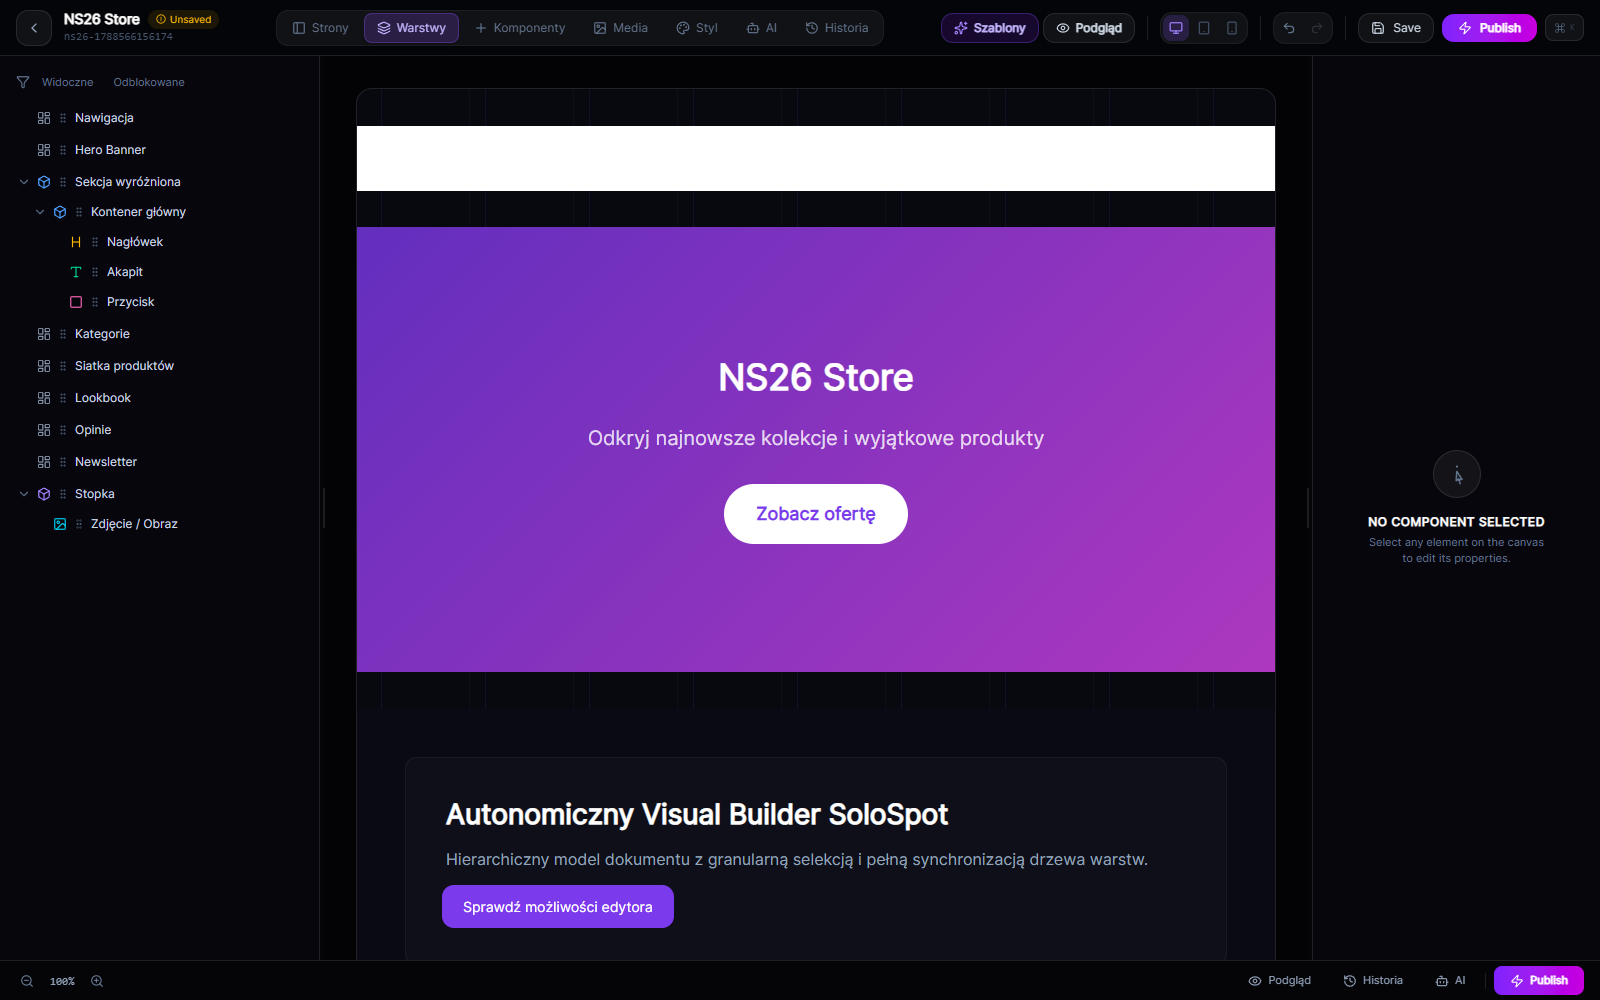
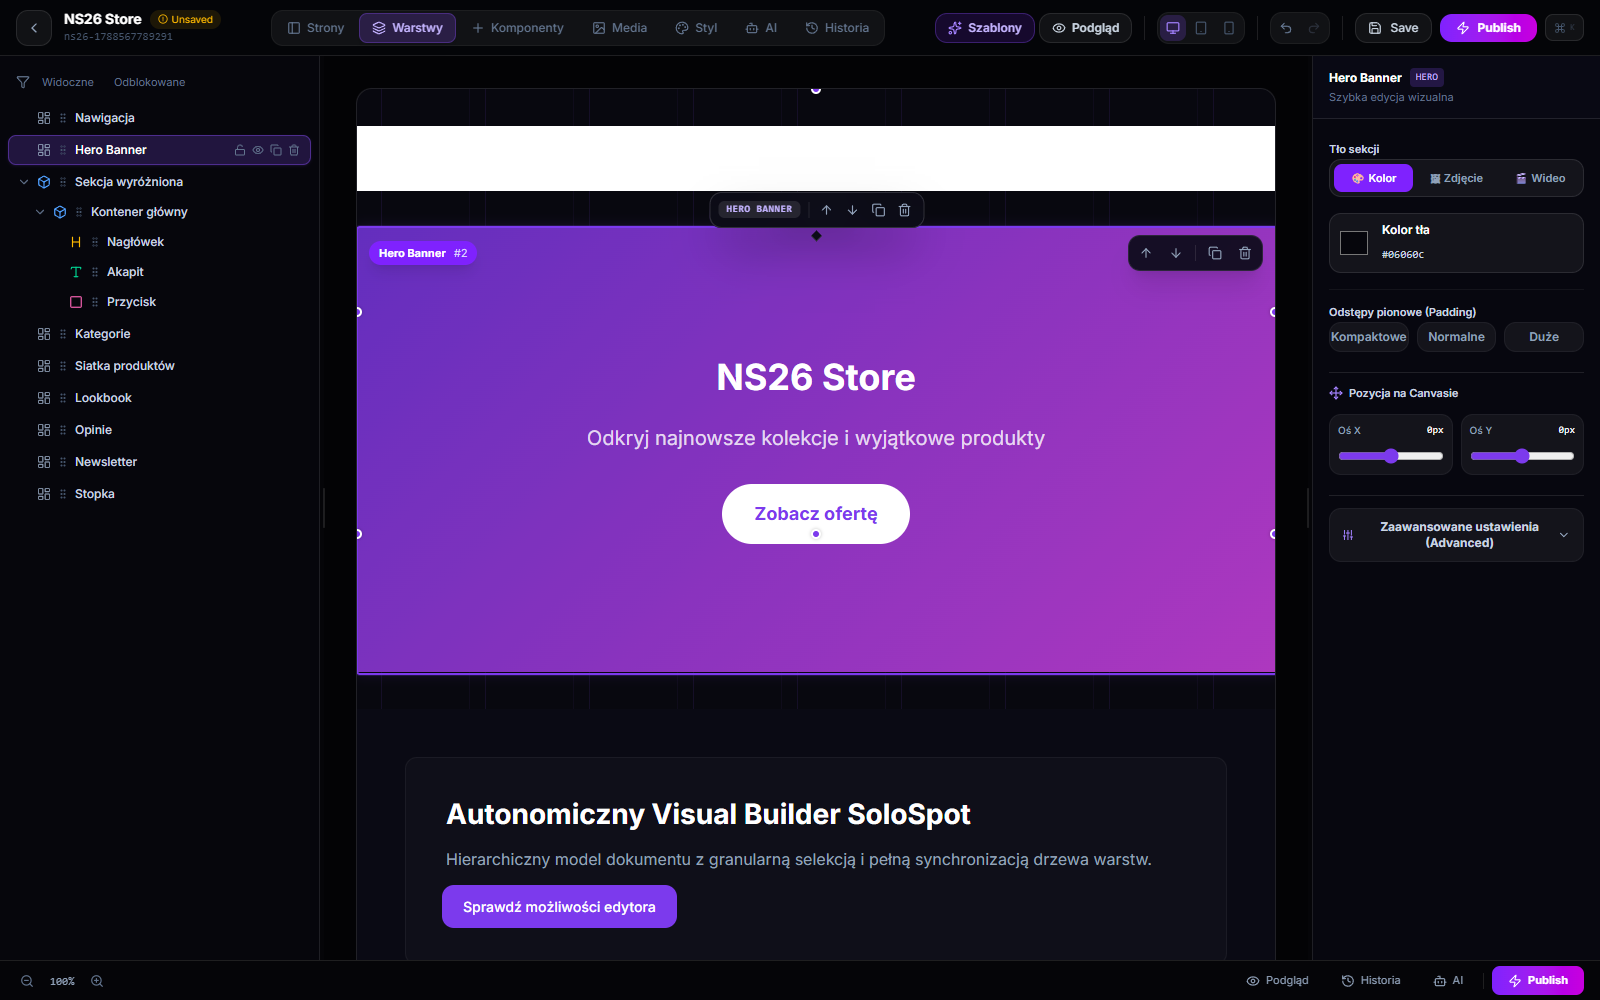
fix(builder): background tab mode override — tab clicks switch panel immediately
The bg panel type was derived only from document values (backgroundImage /
backgroundVideo), so clicking the Zdjęcie/Wideo tab on a color-background
section immediately reverted to the Kolor panel. Added explicit user-mode
override state (reset on selection change); derived values still apply on
first render of a different element.

diff --git a/scripts/ns26-debug4.js b/scripts/ns26-debug4.js
@@ -1,0 +1,74 @@
+/** NS26 debug 4: after clicking section + image tab, dump the inspector DOM */
+const puppeteer = require('puppeteer-core');
+const fs = require('fs');
+const path = require('path');
+const BASE = 'https://www.solospot.pl';
+const EMAIL = `ns26g.bot+${Date.now()}@solospot-test.pl`;
+const PASSWORD = 'Ns26-Acceptance-2026!';
+const OUT = path.join(__dirname, '..', 'scratch', 'ns26-proof');
+const sleep = (ms) => new Promise((r) => setTimeout(r, ms));
+
+async function main() {
+  fs.mkdirSync(OUT, { recursive: true });
+  const browser = await puppeteer.launch({
+    executablePath: 'C:\\Program Files\\Google\\Chrome\\Application\\chrome.exe',
+    headless: 'new', args: ['--no-sandbox'], defaultViewport: { width: 1600, height: 1000 },
+  });
+  const page = await browser.newPage();
+  await fetch(`${BASE}/api/auth/register`, { method: 'POST', headers: { 'Content-Type': 'application/json' }, body: JSON.stringify({ email: EMAIL, password: PASSWORD, name: 'G' }) });
+  await page.goto(`${BASE}/login`, { waitUntil: 'networkidle2' });
+  await sleep(1500);
+  await page.type('input[type="email"]', EMAIL);
+  await page.type('input[type="password"]', PASSWORD);
+  await Promise.all([page.waitForNavigation({ waitUntil: 'networkidle2', timeout: 60000 }).catch(() => {}), page.keyboard.press('Enter')]);
+  await sleep(3000);
+  await page.evaluate(async (url, email) => {
+    await fetch(`${url}/api/onboarding/register`, { method: 'POST', headers: { 'Content-Type': 'application/json' }, body: JSON.stringify({ ownerEmail: email, packageId: 'starter', storeName: 'G' }) });
+  }, BASE, EMAIL);
+  const store = await page.evaluate(async (url) => {
+    const r = await fetch(`${url}/api/stores`, { method: 'POST', headers: { 'Content-Type': 'application/json' }, body: JSON.stringify({ name: 'G', slug: `g${Date.now()}` }) });
+    const b = await r.json(); return b.store.id;
+  }, BASE);
+  await page.goto(`${BASE}/studio/${store}`, { waitUntil: 'networkidle2', timeout: 90000 });
+  await sleep(6000);
+
+  const sBox = await page.evaluate(() => {
+    const el = document.querySelector('[data-section-id="sec_hero"]');
+    if (!el) return null;
+    el.scrollIntoView({ block: 'center' });
+    const r = el.getBoundingClientRect();
+    return { x: r.left + 30, y: r.top + 25 };
+  });
+  await sleep(600);
+  await page.mouse.click(sBox.x, sBox.y);
+  await sleep(2000);
+
+  // Find the Zdjęcie tab button and click it, then dump aside content
+  const tabInfo = await page.evaluate(() => {
+    const btns = Array.from(document.querySelectorAll('button'));
+    const candidates = btns.filter((b) => b.textContent && b.textContent.includes('Zdj'));
+    return candidates.map((b) => ({ text: b.textContent.trim(), cls: b.className.slice(0, 50) }));
+  });
+  console.log('ZDJ BUTTONS:', JSON.stringify(tabInfo, null, 2));
+
+  const clicked = await page.evaluate(() => {
+    const btns = Array.from(document.querySelectorAll('button'));
+    const tab = btns.find((b) => b.textContent && b.textContent.includes('🖼'));
+    if (tab) { tab.click(); return tab.textContent.trim(); }
+    return null;
+  });
+  console.log('CLICKED TAB:', clicked);
+  await sleep(1000);
+
+  const inputs = await page.evaluate(() => {
+    return Array.from(document.querySelectorAll('aside input, input')).slice(0, 25).map((i) => ({
+      type: i.type, placeholder: i.placeholder || '', value: (i.value || '').slice(0, 30),
+      visible: i.offsetParent !== null,
+    }));
+  });
+  console.log('INPUTS:', JSON.stringify(inputs, null, 2));
+  await page.screenshot({ path: path.join(OUT, 'debug4-inspector.png') });
+
+  await browser.close();
+}
+main();

diff --git a/src/components/builder/inspector/PhaseThreeInspector.tsx b/src/components/builder/inspector/PhaseThreeInspector.tsx
@@ -22,7 +22,7 @@
  */
 
 import * as React from 'react';
-import { useState, useRef, useCallback } from 'react';
+import { useState, useRef, useCallback, useEffect } from 'react';
 import {
   Type, Image as ImageIcon, Sparkles, Sliders, ChevronDown, ChevronUp,
   FileText, AlignLeft, AlignCenter, AlignRight, ExternalLink,
@@ -61,6 +61,14 @@ export const PhaseThreeInspector: React.FC<PhaseThreeInspectorProps> = ({
   const [showMediaPicker, setShowMediaPicker] = useState(false);
   /** Which property the media picker writes to */
   const [mediaPickerTarget, setMediaPickerTarget] = useState<'image' | 'section-bg' | 'video-bg'>('image');
+  /** Explicit background tab override — reset when the selection changes */
+  const [bgModeOverride, setBgModeOverride] = useState<'color' | 'image' | 'video' | null>(null);
+
+  // Reset transient UI state when the selected element changes
+  useEffect(() => {
+    setBgModeOverride(null);
+    setMediaPickerTarget('image');
+  }, [sectionId]);
   const selectedNode = useSelectedSection();
   const { canvas, document: builderDoc } = useBuilder();
 
@@ -493,10 +501,25 @@ export const PhaseThreeInspector: React.FC<PhaseThreeInspectorProps> = ({
         {/* SIMPLE CONTROLS: SECTION (any root-level section type)         */}
         {/* ============================================================= */}
         {isRootSection && (() => {
-          const bgType: 'color' | 'image' | 'video' =
+          // Derived mode from the document…
+          const derived: 'color' | 'image' | 'video' =
             props.backgroundVideo ? 'video'
             : currentStyles.backgroundImage && currentStyles.backgroundImage !== 'none' ? 'image'
             : 'color';
+          // …overridden by explicit user tab choice (reset when the selection changes)
+          const bgType = bgModeOverride ?? derived;
+
+          const selectBgMode = (mode: 'color' | 'image' | 'video') => {
+            setBgModeOverride(mode);
+            if (mode === 'color') {
+              onStyleChange({ backgroundImage: 'none' });
+              onPropChange('backgroundVideo', '');
+            } else if (mode === 'image') {
+              onPropChange('backgroundVideo', '');
+            } else {
+              onStyleChange({ backgroundImage: 'none' });
+            }
+          };
 
           return (
             <div className="space-y-4">
@@ -507,16 +530,7 @@ export const PhaseThreeInspector: React.FC<PhaseThreeInspectorProps> = ({
                   {(['color', 'image', 'video'] as const).map((tab) => (
                     <button
                       key={tab}
-                      onClick={() => {
-                        if (tab === 'color') {
-                          onStyleChange({ backgroundImage: 'none' });
-                          onPropChange('backgroundVideo', '');
-                        } else if (tab === 'image') {
-                          onPropChange('backgroundVideo', '');
-                        } else {
-                          onStyleChange({ backgroundImage: 'none' });
-                        }
-                      }}
+                      onClick={() => selectBgMode(tab)}
                       className={`flex-1 py-1.5 text-[11px] font-semibold rounded-lg transition-all ${
                         bgType === tab
                           ? 'bg-violet-600 text-white'
